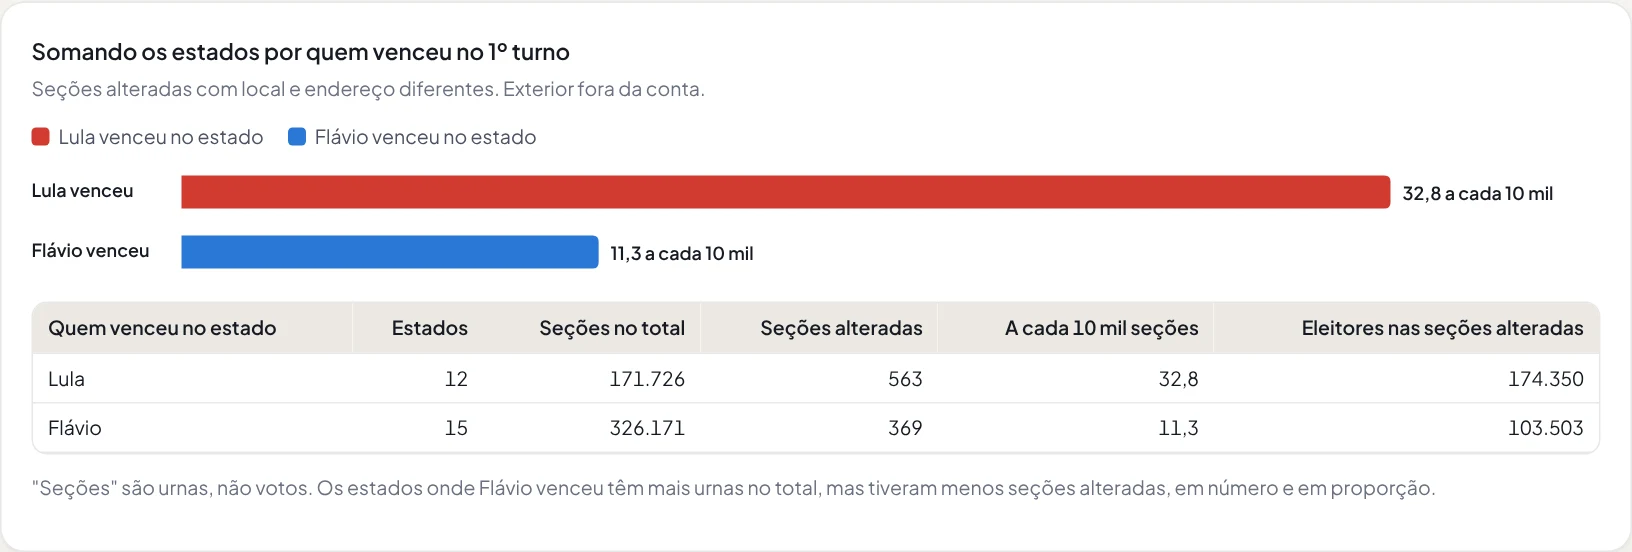
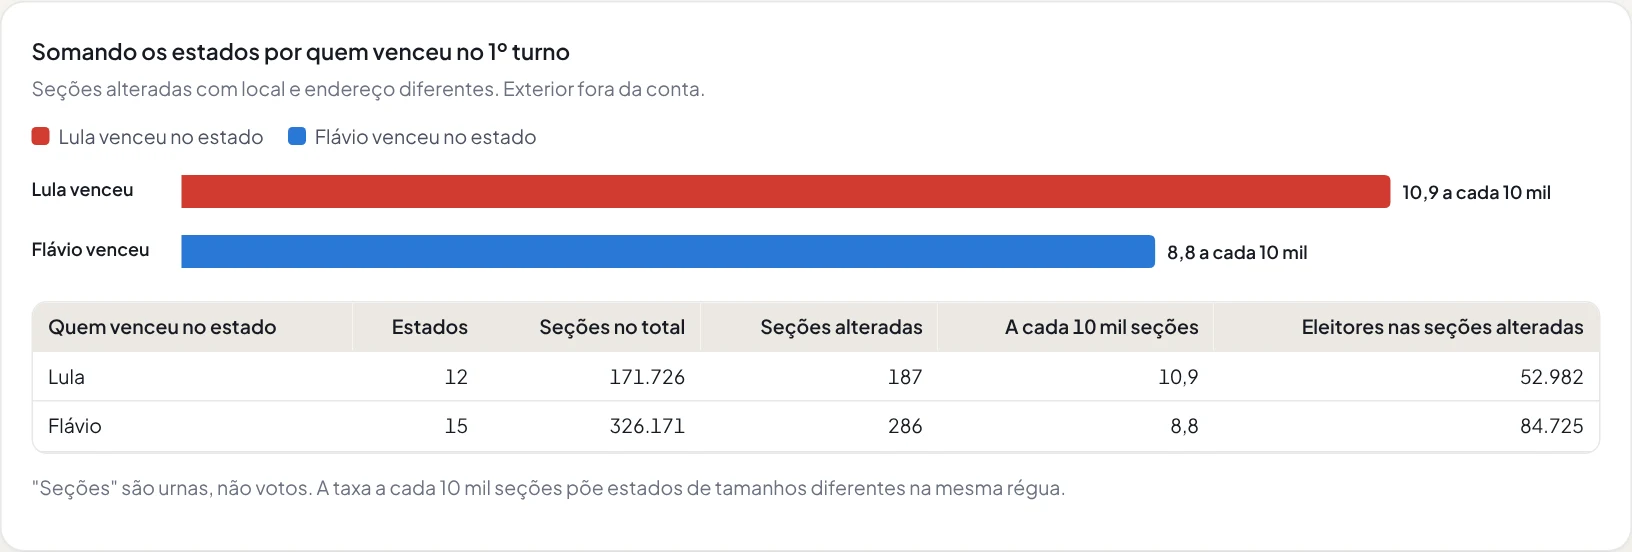
Atualiza o case das seções alteradas para a lista de 20/10
Textos em PT e EN com a lista de 20/10, as mudanças fora da lista e o teste das mudanças que saíram, figuras refeitas a partir da página nova e uma figura nova para o teste das mudanças desfeitas.

diff --git a/client/src/lib/translations.ts b/client/src/lib/translations.ts
@@ -110,33 +110,34 @@ export const translations = {
       },
         elections: {
           title: 'Seções alteradas no 2º turno',
-          desc: 'As mudanças de local de votação para o 2º turno de 2026 favoreceram algum candidato? Cruzei a lista do TSE com os votos do 1º turno e testei, dentro de cada zona eleitoral, contra 5.000 sorteios.',
-          tagline: 'As mudanças de local de votação para o 2º turno de 2026 favoreceram algum candidato? Coletei a lista oficial do TSE, separei as mudanças reais das falsas e comparei cada escola que mudou com as vizinhas da mesma zona eleitoral, num teste de permutação com 5.000 sorteios.',
+          desc: 'As mudanças de local de votação para o 2º turno de 2026 favoreceram algum candidato? Cruzei a lista do TSE com o cadastro de locais e os votos do 1º turno, achei mudanças que a lista não pega e testei tudo dentro de cada zona eleitoral.',
+          tagline: 'As mudanças de local de votação para o 2º turno de 2026 favoreceram algum candidato? Acompanhei a lista oficial do TSE enquanto ela encolhia de 4.352 para 441 seções, achei mudanças reais que ela não pega e testei, com 5.000 sorteios, tanto as mudanças que ficaram quanto as que foram desfeitas.',
           role: 'Autora',
           origin: 'Projeto pessoal · dados abertos do TSE',
           metrics: {
-            0: { value: '1.106 → 932', label: 'seções na lista do TSE e as que mudaram de local e de endereço de verdade (277.853 eleitores)' },
-            1: { value: '5.000', label: 'sorteios de escolas dentro de cada uma das 175 zonas eleitorais com alguma mudança' },
-            2: { value: 'p = 0,75', label: 'as escolas que mudaram votaram como escolas escolhidas ao acaso' },
+            0: { value: '441 + 84', label: 'seções da lista do TSE de 20/10 e mudanças reais que ficaram fora dela (143.291 eleitores)' },
+            1: { value: '681', label: 'das 932 mudanças reais da lista de 19/10 saíram da lista no dia seguinte' },
+            2: { value: 'p = 0,33 · 0,76', label: 'as escolas que mudaram e as que saíram da lista votaram como escolas sorteadas ao acaso' },
           },
           context: 'Uma semana antes do 2º turno entre Lula e Flávio Bolsonaro, o TSE divulgou que mais de 4 mil seções eleitorais mudariam de local. A pergunta que circulou foi se as mudanças favoreciam algum candidato. Os dados para responder são públicos: a lista de seções alteradas, o cadastro de locais de votação e os votos de cada seção no 1º turno.',
-          problem: 'O número oficial caiu de 4.352 para 2.033 e depois para 1.106 em três dias, porque o sistema do TSE contava como alteração seções que seguiam no mesmo endereço. O painel não exportava (ORA-40441) e mostrava 20 linhas por vez. E a comparação ingênua engana: as seções alteradas votaram mais em Lula que a média do Brasil, mas estão concentradas onde ele já é mais votado.',
+          problem: 'O número oficial caiu de 4.352 para 2.033, depois 1.106 e 441 em cinco dias. A lista marca uma seção como alterada quando o código do local muda, então conta trocas de código no mesmo endereço e deixa de fora mudanças de endereço com o mesmo código. Entre 19/10 e 20/10, 681 mudanças reais sumiram da lista. E a comparação ingênua engana: as seções alteradas votaram mais em Lula que a média do Brasil, mas não estão espalhadas por igual pelo país.',
           steps: {
-            0: { title: 'Coletar a lista oficial', desc: 'O painel é um relatório do Oracle APEX. Em vez de clicar 56 vezes em "próximo", um script no console do navegador chama a função de paginação do próprio painel e junta as 1.106 seções num CSV.' },
-            1: { title: 'Separar mudança real de mudança no papel', desc: 'Cada seção foi conferida contra o cadastro de locais de votação: 138 seguiam no mesmo local nos dois turnos e 36 só mudaram o nome do local, no mesmo endereço. Sobraram 932 com local e endereço diferentes.' },
+            0: { title: 'Coletar as listas oficiais', desc: 'Na lista de 19/10, o botão de exportar do painel (Oracle APEX) falhava e a tabela mostrava 20 linhas por vez: um script no console do navegador chamou a paginação do próprio painel e juntou as 1.106 seções. A de 20/10 saiu pelo botão.' },
+            1: { title: 'Conferir cada seção no cadastro', desc: 'Cada seção foi conferida contra o cadastro de locais do mesmo dia. Das 441 da lista de 20/10, 35 só trocaram o código do local. Fora da lista, 277 seções mantiveram o código e mudaram de endereço: revisei uma a uma e 84 são mudanças reais, como Brás de Pina, no Rio.' },
             2: { title: 'Cruzar com os votos do 1º turno', desc: 'Votação por seção do TSE, em DuckDB. O arquivo de votos traz o código do município sem o zero à esquerda e o de locais traz com: sem tratar isso, sete estados sumiam do cruzamento sem nenhum erro aparecer.' },
-            3: { title: 'Comparar dentro da zona', desc: 'Quem decide a mudança é a zona eleitoral, escola por escola. Em cada uma das 175 zonas, sorteei o mesmo número de escolas que mudou de verdade e calculei a fatia do Lula entre Lula e Flávio, 5.000 vezes, com semente fixa. Os testes conferem que o método acusa uma escolha direcionada e não acusa uma escolha ao acaso.' },
-            4: { title: 'Publicar em duas línguas', desc: 'Página estática no GitHub Pages, em português e inglês, com gráficos em SVG desenhados à mão e cores validadas para daltonismo. O pipeline grava um JSON e o navegador só desenha.' },
+            3: { title: 'Testar dentro da zona e do estado', desc: 'Para as mudanças que ficaram, sorteei em cada zona o mesmo número de escolas que mudou de verdade, 5.000 vezes. Para as que foram desfeitas, nenhuma zona teve só parte desfeita, então o sorteio foi dentro de cada estado, onde o TRE decide. Os testes conferem que o método acusa uma escolha direcionada e não acusa uma escolha ao acaso.' },
+            4: { title: 'Publicar em duas línguas', desc: 'Página estática no GitHub Pages, em português e inglês, com gráficos em SVG desenhados à mão, cores validadas para daltonismo e uma tabela de robustez com quatro definições de "seção alterada".' },
           },
           figures: {
-            cover: 'O teste: a fatia do Lula nas escolas que mudaram (linha) cai no meio dos 5.000 sorteios. A faixa contém 95% deles.',
-            funil: 'De 4.352 para 932: os números divulgados pelo TSE, a lista do painel e as seções com mudança real.',
+            cover: 'O teste: a fatia do Lula nas escolas que mudaram (linha) cai dentro dos 5.000 sorteios. A faixa contém 95% deles.',
+            funil: 'De 4.352 para 441: os números divulgados pelo TSE, as listas do painel e as mudanças reais analisadas.',
+            saidas: 'As mudanças desfeitas: a fatia do Lula nas escolas que voltaram atrás, contra sorteios dentro de cada estado.',
             votos: 'Votos válidos no 1º turno nas seções alteradas, nas mesmas zonas e no Brasil.',
-            vencedor: 'Estados onde Lula venceu tiveram 32,8 seções alteradas a cada 10 mil, contra 11,3 onde Flávio venceu.',
+            vencedor: 'Com a lista de 20/10, estados onde Lula venceu têm 10,9 seções alteradas a cada 10 mil, e onde Flávio venceu, 8,8.',
             estados: 'Seções alteradas a cada 10 mil seções de cada estado, pela cor de quem venceu no estado.',
           },
-          result: 'Não há sinal de direcionamento. Nas 256 escolas que mudaram, Lula teve 54,5% dos votos dados a Lula ou Flávio, e 95% dos sorteios ficaram entre 53,1% e 56,3% (p = 0,75). Com a lista completa de 1.106 seções, o resultado é o mesmo (p = 0,68). O dado mais forte a favor da hipótese também está na página: estados onde Lula venceu tiveram quase 3 vezes mais alterações por seção. A explicação está no nível em que a decisão é tomada: dentro de cada zona, as escolas alteradas votam como as vizinhas.',
-          limitations: 'O painel do TSE mostra só a versão atual da lista, e alguns TREs publicaram números diferentes da lista nacional. Parte das 932 seções ainda pode ser só diferença de escrita no endereço. O teste não mede se a mudança afastou eleitores: isso depende da abstenção do 2º turno, o próximo passo, junto com repetir a análise em 2018 e 2022.',
+          result: 'Não há sinal de direcionamento. Nas 138 escolas que mudaram, Lula teve 51,9% dos votos dados a Lula ou Flávio, e 95% dos sorteios ficaram entre 50,7% e 55,7% (p = 0,33). O resultado se mantém com outras definições de "seção alterada" (p entre 0,15 e 0,45). As mudanças desfeitas também não pendem para nenhum lado dentro de cada estado (p = 0,76). Na lista de 19/10, estados onde Lula venceu tinham quase 3 vezes mais alterações por seção; com a lista de 20/10, a diferença caiu para 10,9 contra 8,8, porque a maior parte das mudanças no Nordeste foi desfeita.',
+          limitations: 'O painel do TSE mostra só a versão atual da lista, e o cadastro de locais é sobrescrito a cada atualização: a classificação de 19/10 ficou salva no repositório. Das mudanças que saíram da lista, não dá para saber se foram desfeitas ou se o cadastro de 18/10 estava errado. A separação entre mudança real e diferença de escrita tem julgamento. O teste não mede se a mudança afastou eleitores: isso depende da abstenção do 2º turno, o próximo passo, junto com repetir a análise em 2018 e 2022.',
         },
         fuel: {
           title: 'Raio-X dos Combustíveis',
@@ -372,33 +373,34 @@ export const translations = {
       },
         elections: {
           title: 'Moved Polling Sections (Brazil 2026)',
-          desc: 'Did the polling place changes for Brazil\'s 2026 presidential runoff favor either candidate? I matched the electoral court\'s list with first-round votes and tested it within each electoral zone against 5,000 random draws.',
-          tagline: 'Did the polling place changes for Brazil\'s 2026 presidential runoff favor either candidate? I collected the electoral court\'s official list, separated real changes from paper ones and compared each school that moved with its neighbors in the same electoral zone, in a permutation test with 5,000 draws.',
+          desc: 'Did the polling place changes for Brazil\'s 2026 presidential runoff favor either candidate? I matched the electoral court\'s list with the polling place registry and first-round votes, found real changes the list misses and tested everything within each electoral zone.',
+          tagline: 'Did the polling place changes for Brazil\'s 2026 presidential runoff favor either candidate? I followed the electoral court\'s official list as it shrank from 4,352 to 441 sections, found real changes it misses and tested, with 5,000 random draws, both the changes that stayed and the ones that were undone.',
           role: 'Author',
           origin: 'Personal project · Brazilian electoral open data (TSE)',
           metrics: {
-            0: { value: '1,106 → 932', label: 'sections on the TSE list, and those that truly changed place and address (277,853 voters)' },
-            1: { value: '5,000', label: 'random draws of schools within each of the 175 electoral zones with at least one change' },
-            2: { value: 'p = 0.75', label: 'the schools that moved voted like schools picked at random' },
+            0: { value: '441 + 84', label: 'sections on the Oct 20 TSE list, and real changes left off it (143,291 voters)' },
+            1: { value: '681', label: 'of the 932 real changes on the Oct 19 list were dropped from it the next day' },
+            2: { value: 'p = 0.33 · 0.76', label: 'the schools that moved and the ones dropped from the list voted like schools picked at random' },
           },
           context: 'A week before the runoff between Lula and Flávio Bolsonaro, Brazil\'s Superior Electoral Court (TSE) announced that more than 4,000 polling sections would change location. The question going around was whether the changes favored either candidate. The data to answer it is public: the list of moved sections, the polling place registry and each section\'s first-round votes.',
-          problem: 'The official number dropped from 4,352 to 2,033 and then to 1,106 in three days, because the TSE system counted sections that stayed at the same address as "changed". The dashboard would not export (ORA-40441) and showed 20 rows at a time. And the naive comparison misleads: the moved sections voted more for Lula than the national average, but they are concentrated where he is already stronger.',
+          problem: 'The official number dropped from 4,352 to 2,033, then 1,106 and 441 in five days. The list flags a section as moved when the polling place code changes, so it counts code swaps at the same address and misses address changes that kept the code. Between Oct 19 and Oct 20, 681 real changes disappeared from the list. And the naive comparison misleads: the moved sections voted more for Lula than the national average, but they are not spread evenly across the country.',
           steps: {
-            0: { title: 'Collect the official list', desc: 'The dashboard is an Oracle APEX report. Instead of clicking "next" 56 times, a script in the browser console calls the dashboard\'s own pagination function and gathers all 1,106 sections into a CSV.' },
-            1: { title: 'Separate real changes from paper ones', desc: 'Each section was checked against the polling place registry: 138 stayed at the same place in both rounds and 36 only had the place renamed, at the same address. That left 932 with a different place and address.' },
+            0: { title: 'Collect the official lists', desc: 'For the Oct 19 list, the dashboard\'s export button (Oracle APEX) failed and the table showed 20 rows at a time: a script in the browser console called the dashboard\'s own pagination and gathered all 1,106 sections. The Oct 20 list came out through the button.' },
+            1: { title: 'Check every section in the registry', desc: 'Each section was checked against the same-day polling place registry. Of the 441 on the Oct 20 list, 35 only changed the place code. Off the list, 277 sections kept the code and changed address: I reviewed them one by one and 84 are real changes, like Brás de Pina in Rio de Janeiro.' },
             2: { title: 'Match with first-round votes', desc: 'TSE votes by section, in DuckDB. The votes file stores the municipality code without the leading zero and the registry keeps it: left untreated, seven states silently dropped out of the join.' },
-            3: { title: 'Compare within the zone', desc: 'The move is decided by the electoral zone, school by school. In each of the 175 zones, I drew the same number of schools that actually moved and computed Lula\'s share of the Lula and Flávio vote, 5,000 times, with a fixed seed. The tests check that the method flags a targeted choice and does not flag a random one.' },
-            4: { title: 'Publish in two languages', desc: 'Static page on GitHub Pages, in Portuguese and English, with hand-drawn SVG charts and colorblind-safe colors. The pipeline writes a JSON and the browser only draws.' },
+            3: { title: 'Test within the zone and the state', desc: 'For the changes that stayed, I drew in each zone the same number of schools that actually moved, 5,000 times. For the ones that were undone, no zone had only part of its changes undone, so the draw was made within each state, where the regional court decides. The tests check that the method flags a targeted choice and does not flag a random one.' },
+            4: { title: 'Publish in two languages', desc: 'Static page on GitHub Pages, in Portuguese and English, with hand-drawn SVG charts, colorblind-safe colors and a robustness table with four definitions of "moved section".' },
           },
           figures: {
-            cover: 'The test: Lula\'s share in the schools that moved (line) lands in the middle of the 5,000 draws. The band holds 95% of them.',
-            funil: 'From 4,352 to 932: the figures the TSE released, the dashboard list and the sections with a real change.',
+            cover: 'The test: Lula\'s share in the schools that moved (line) lands inside the 5,000 draws. The band holds 95% of them.',
+            funil: 'From 4,352 to 441: the figures the TSE released, the dashboard lists and the real changes analyzed.',
+            saidas: 'The undone changes: Lula\'s share in the schools that moved back, against draws within each state.',
             votos: 'Valid first-round votes in the moved sections, in the same zones and nationwide.',
-            vencedor: 'States Lula won had 32.8 moved sections per 10,000, against 11.3 in the states Flávio won.',
+            vencedor: 'With the Oct 20 list, states Lula won have 10.9 moved sections per 10,000, and states Flávio won have 8.8.',
             estados: 'Moved sections per 10,000 sections in each state, colored by the state winner.',
           },
-          result: 'No sign of targeting. In the 256 schools that moved, Lula got 54.5% of the votes cast for Lula or Flávio, and 95% of the draws fell between 53.1% and 56.3% (p = 0.75). With the full list of 1,106 sections, the result is the same (p = 0.68). The strongest data point in favor of the hypothesis is on the page too: states Lula won had almost 3 times more changes per section. The explanation is the level at which the decision is made: within each zone, the moved schools vote like their neighbors.',
-          limitations: 'The TSE dashboard only shows the current version of the list, and some regional courts published numbers that differ from the national list. Some of the 932 sections may still be just a different spelling of the same address. The test does not measure whether the move kept people from voting: that depends on runoff abstention, the next step, along with repeating the analysis for 2018 and 2022.',
+          result: 'No sign of targeting. In the 138 schools that moved, Lula got 51.9% of the votes cast for Lula or Flávio, and 95% of the draws fell between 50.7% and 55.7% (p = 0.33). The result holds under other definitions of "moved section" (p between 0.15 and 0.45). The undone changes don\'t lean either way within each state either (p = 0.76). On the Oct 19 list, states Lula won had almost 3 times more changes per section; with the Oct 20 list the gap shrank to 10.9 vs. 8.8, because most changes in the Northeast were undone.',
+          limitations: 'The TSE dashboard only shows the current version of the list, and the polling place registry is overwritten at every update: the Oct 19 classification is saved in the repository. For the changes dropped from the list, the data cannot tell whether they were undone or the Oct 18 registry was wrong. Separating real changes from spelling differences involves judgment. The test does not measure whether the move kept people from voting: that depends on runoff abstention, the next step, along with repeating the analysis for 2018 and 2022.',
         },
         fuel: {
           title: 'Fuel Price X-Ray (Brazil)',

diff --git a/client/src/lib/projects.ts b/client/src/lib/projects.ts
@@ -35,6 +35,7 @@ export const PROJECTS: Project[] = [
     steps: 5,
     figures: [
       { key: "funil", src: "/images/projects/secoes/funil.webp", narrow: true },
+      { key: "saidas", src: "/images/projects/secoes/saidas.webp", narrow: true },
       { key: "votos", src: "/images/projects/secoes/votos.webp" },
       { key: "vencedor", src: "/images/projects/secoes/vencedor.webp" },
       { key: "estados", src: "/images/projects/secoes/estados.webp" },
